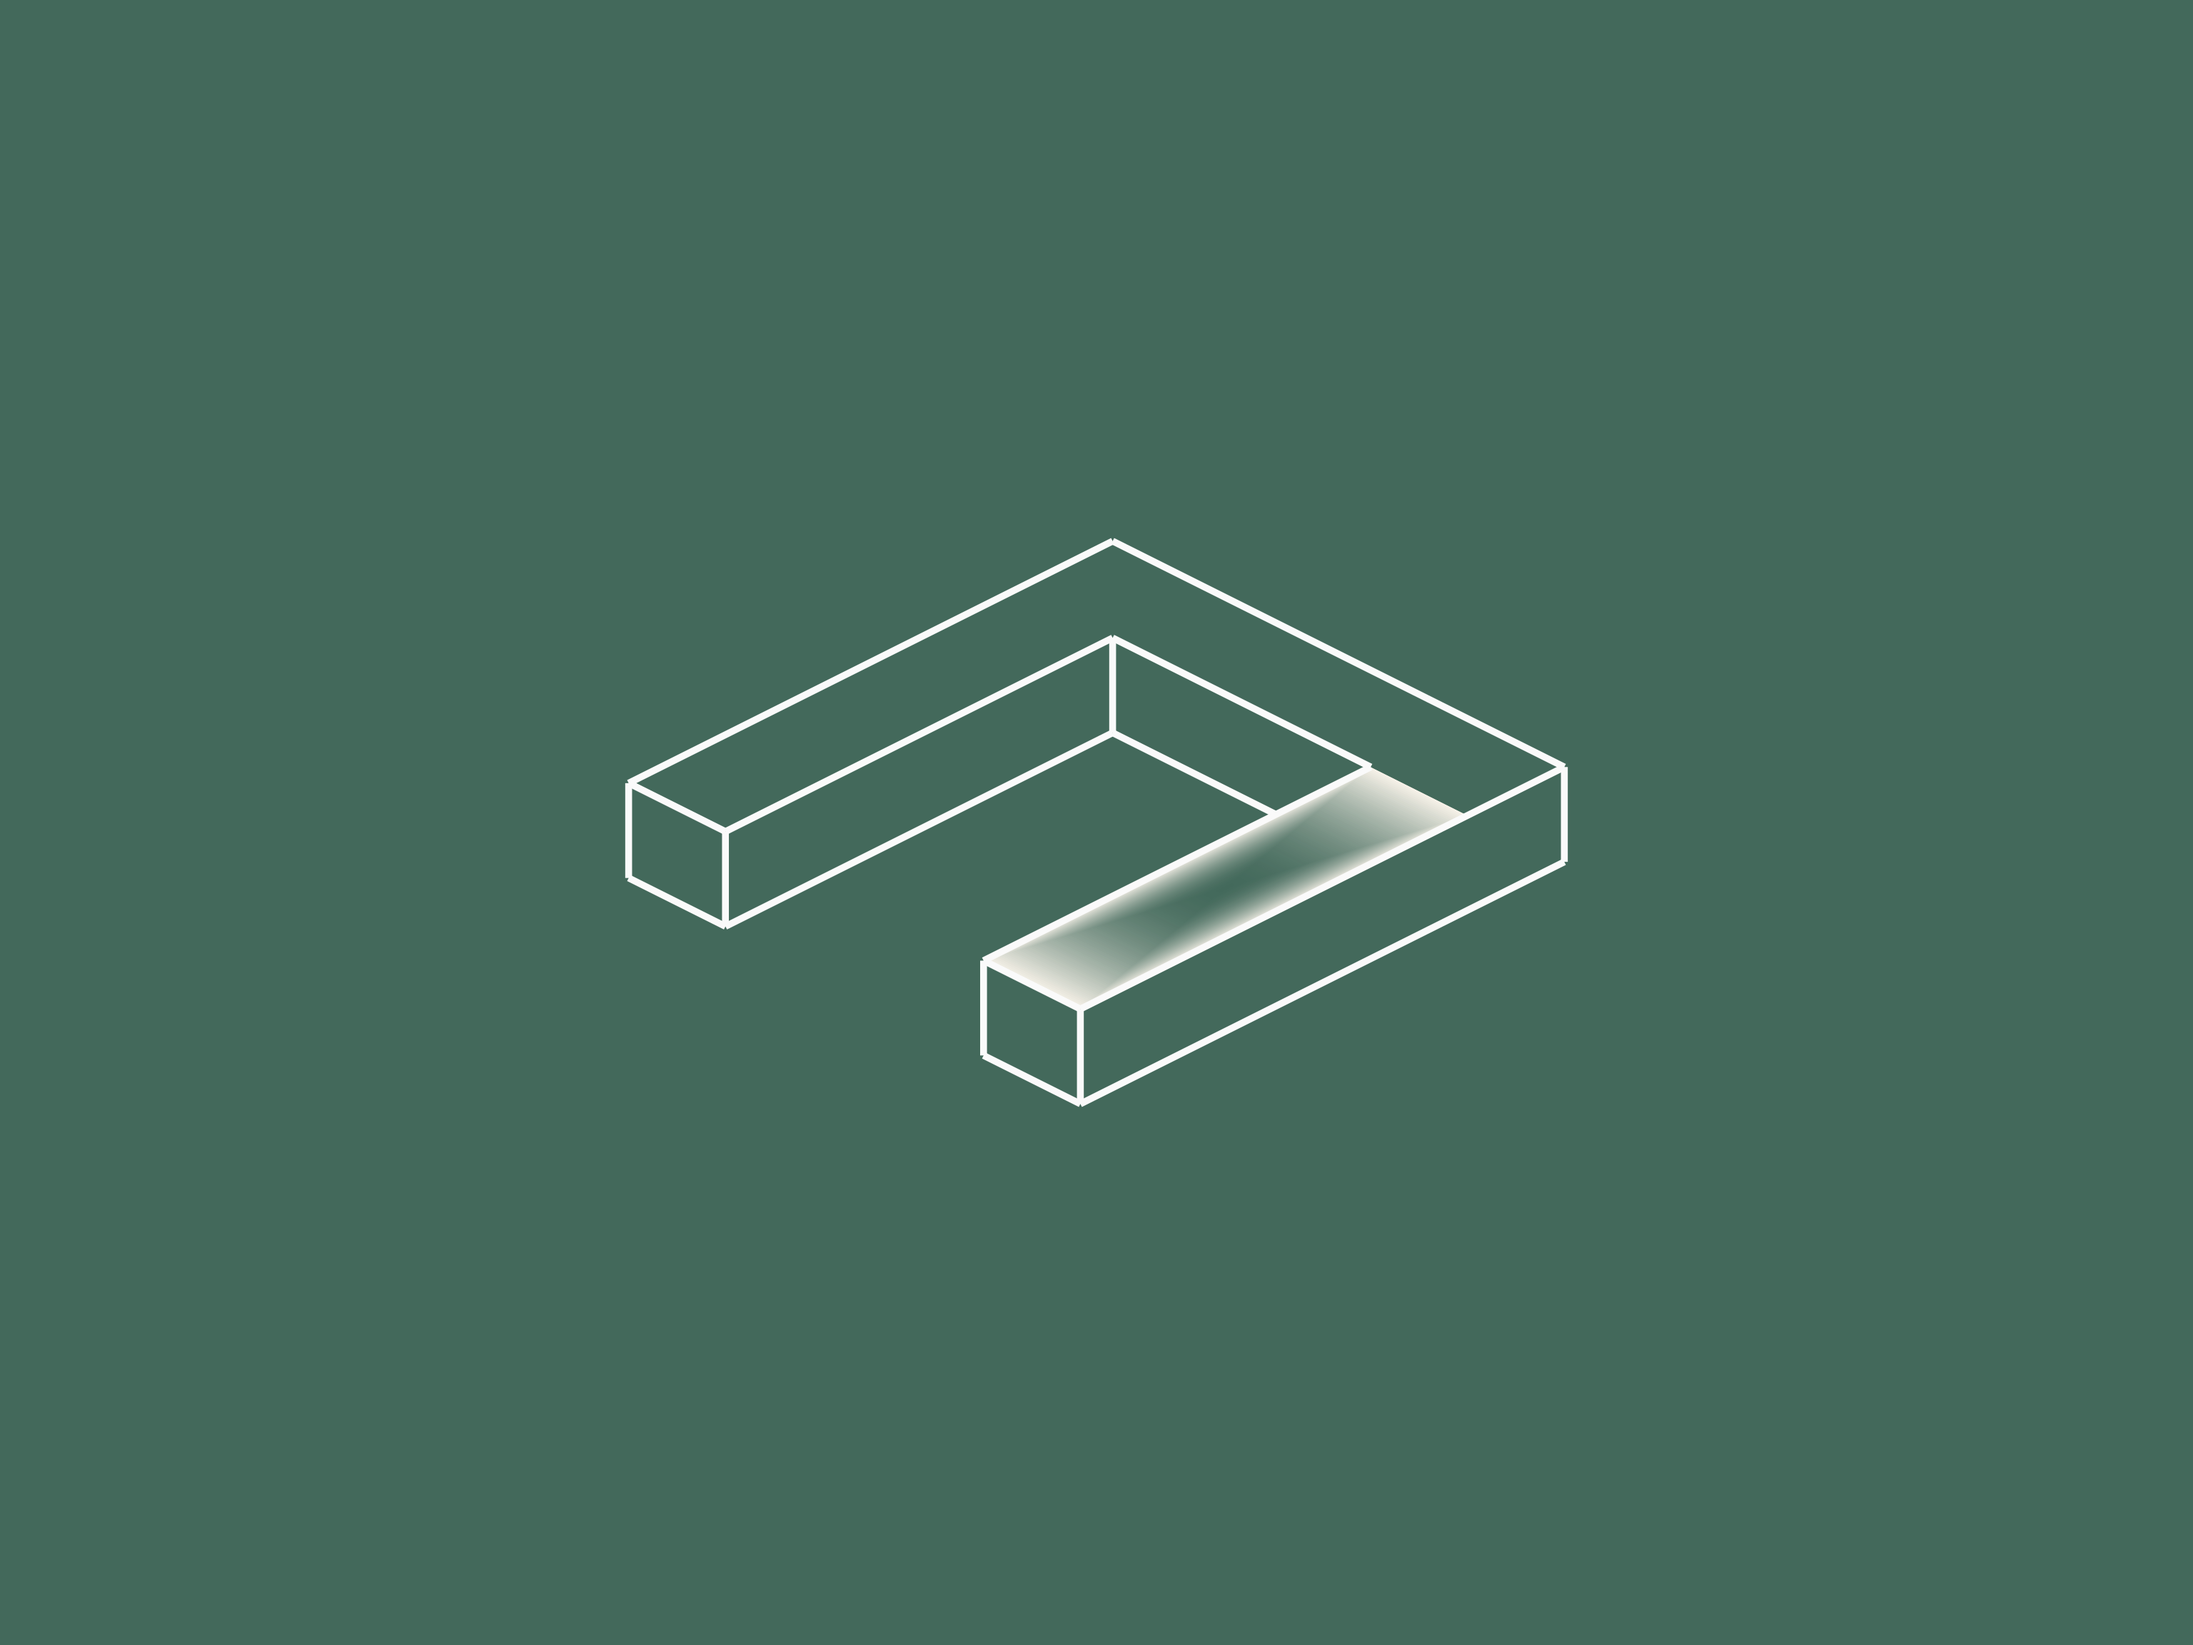
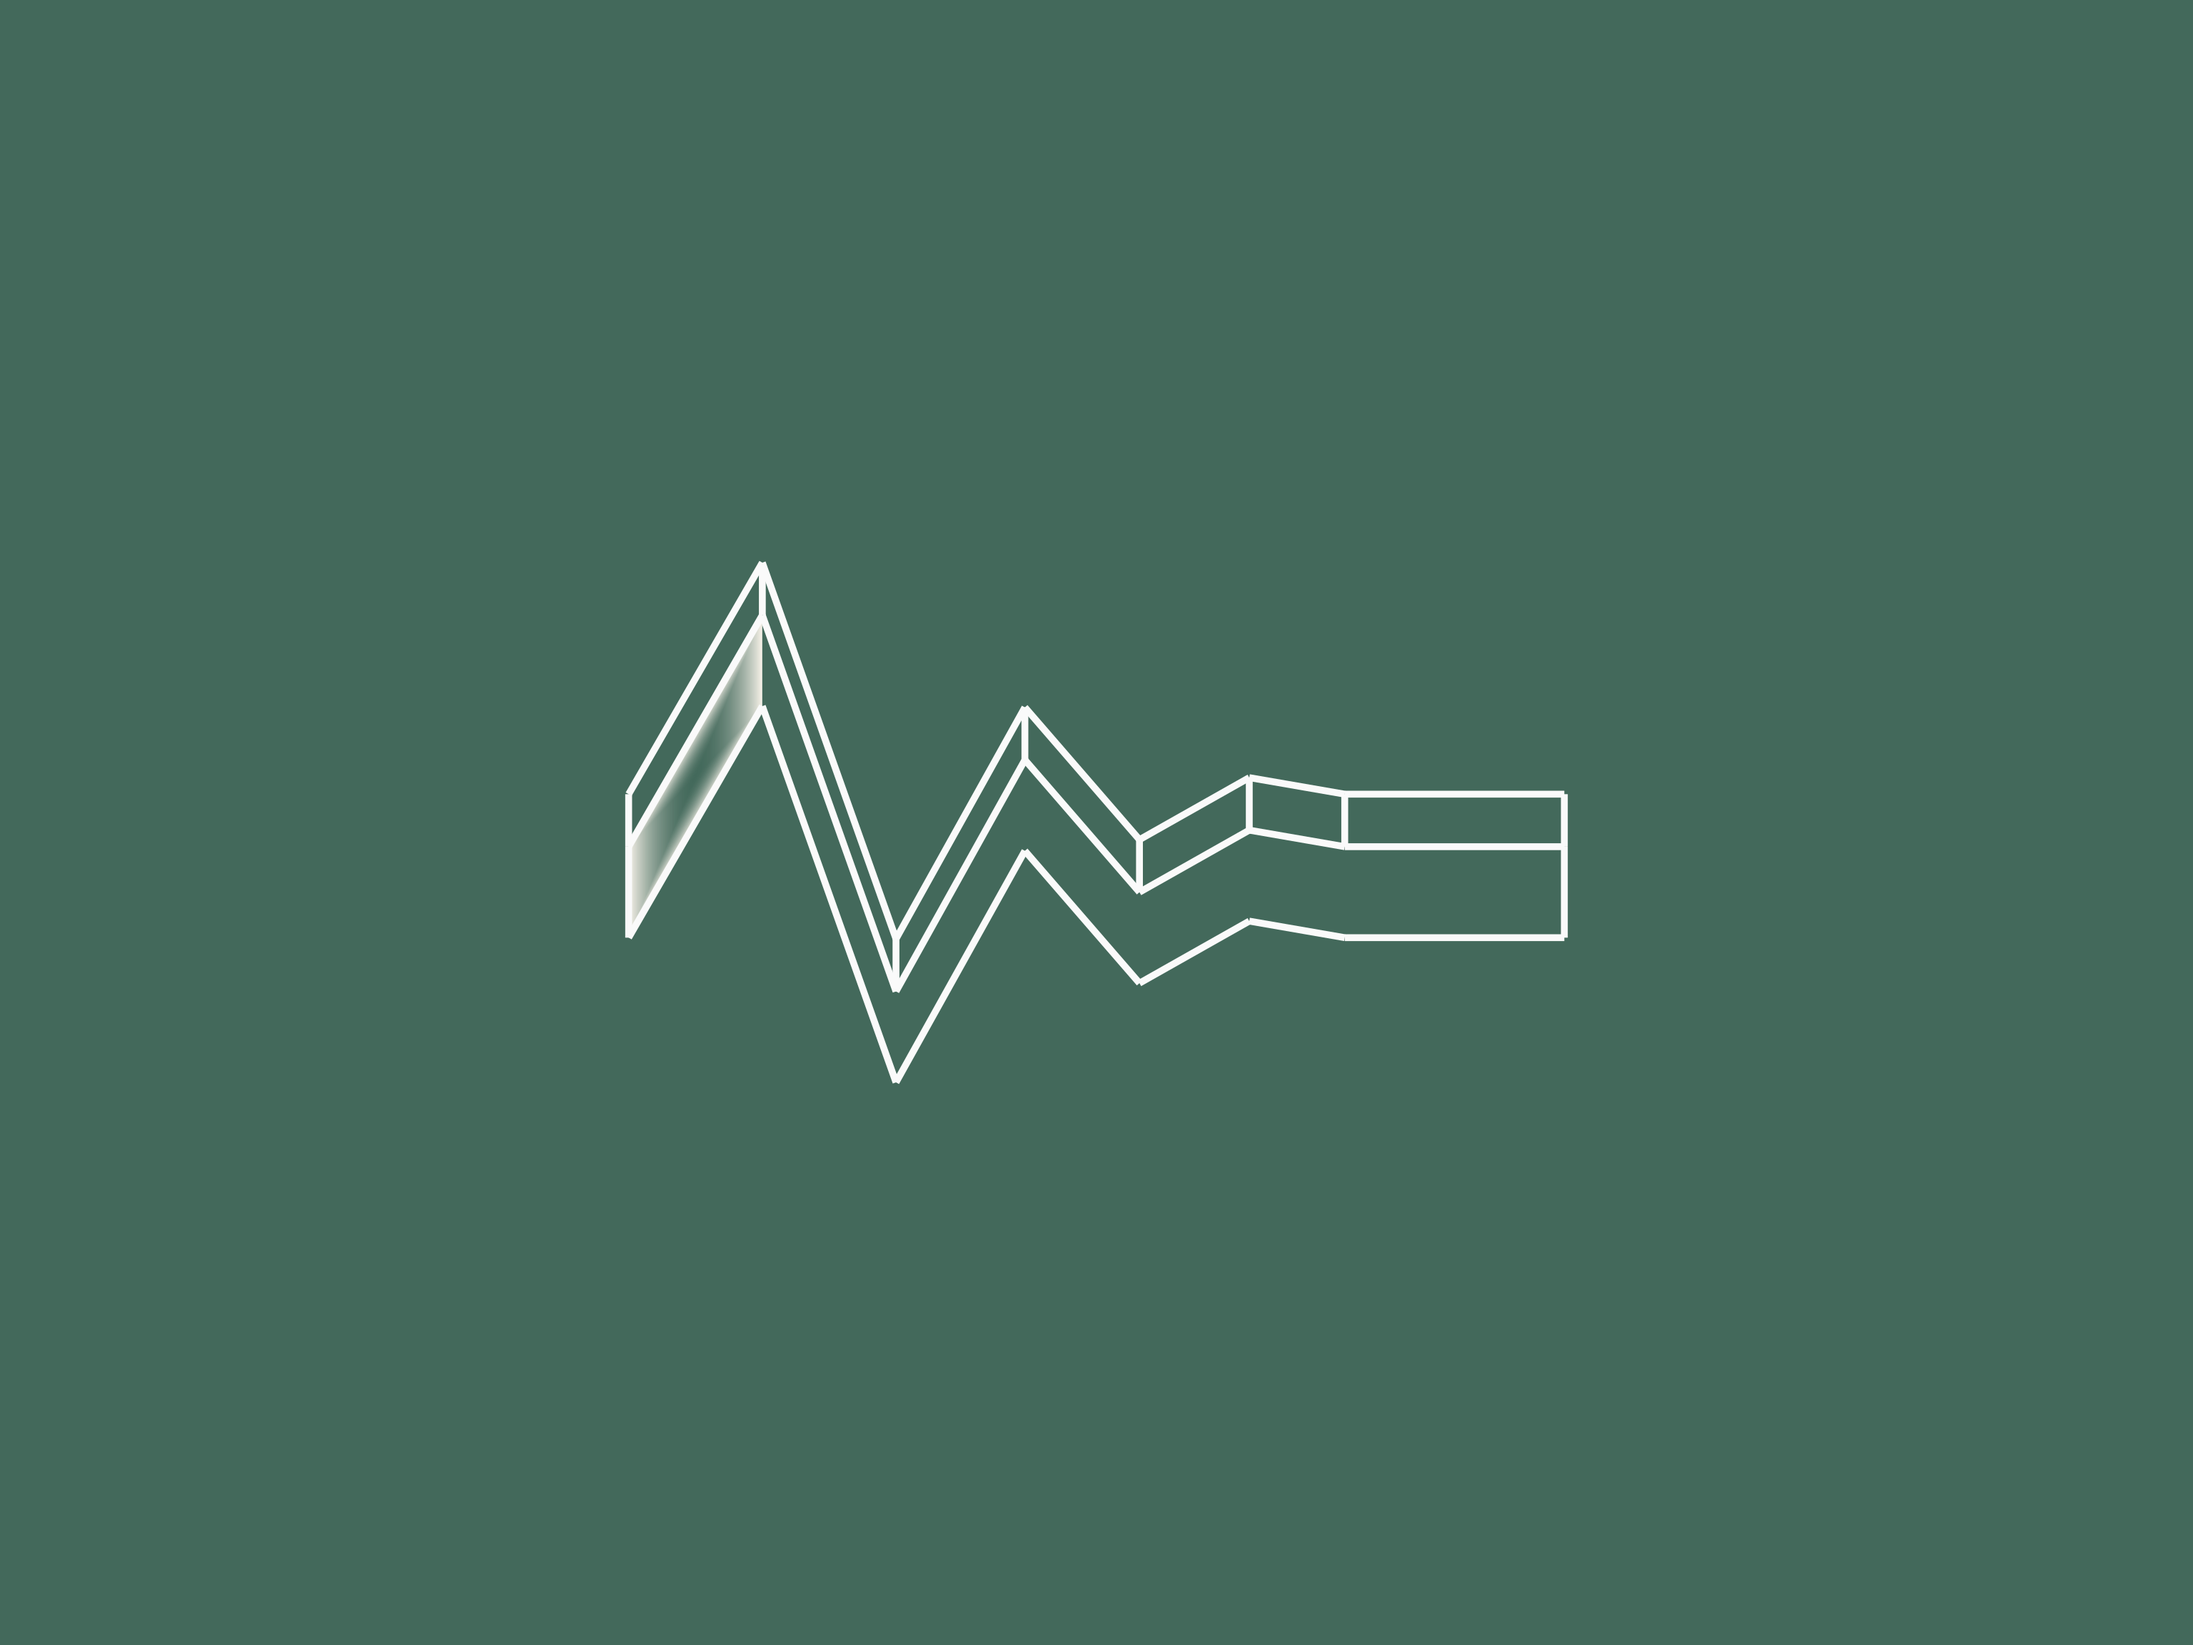
Replace quote follow-up cover with a fading waveform

diff --git a/docs/design/blog-illustrations-2026-11-17/quotes-go-quiet/decision.md b/docs/design/blog-illustrations-2026-11-17/quotes-go-quiet/decision.md
@@ -1,11 +1,15 @@
 # The quote went out. Then nothing.
 
-Selected abstract concept: one substantial hairpin path leaves and returns to the same starting line. The return arm is highlighted, making recurrence and continued follow-up the focal relationship. The two arms and broad square turn are one continuous physical solid, with no connector decoration or literal envelope. This follows the user's latest preference for abstract concepts.
+Selected concept: one substantial signal ribbon settles into silence. A large initial pulse is followed by strictly diminishing alternating pulses and a clear flat tail. The first rising face is the single highlighted region, using the native four-sided diamond fade. All outlines remain fully opaque; the fading is expressed entirely through decreasing amplitude, not transparency. This replaces the rejected hairpin, retained in `recipe.hairpin-rejected.mjs`.
 
-Source: https://atomsai.com/resources/blog/quotes-go-quiet; the imported body describes quotes sent once and then left without useful follow-up. The literal envelope recipe is retained in `recipe.envelope-superseded.mjs`; the old abstract joined sheets remain rejected.
+Source: https://atomsai.com/resources/blog/quotes-go-quiet; the article describes a quote sent out, then a conversation that goes quiet. The signal-to-silence relationship is recognizable without an envelope, text, generic bars or isolated decorative objects.
 
-Geometry: a single concave U-shaped prism, 140 units across, 150 long and 24 thick. Both arms and the return turn have the same 30-unit width. One continuous top face and one bottom face meet eight boundary walls; there are no intersecting beam solids, internal seams or duplicate faces. The highlight is a subset of the actual coplanar return surface, with no other raised geometry that could occlude it.
+Construction: one closed extruded polygon in a physical vertical plane, with orthogonal width, height and depth axes. The angular waveform is deliberately folded rather than a smooth sweep, so every emitted edge is a genuine structural boundary supported by the supplied renderer. The 22-unit depth and 22-unit front-band separation give the pulse real volume. The monotonically increasing horizontal coordinate prevents self-crossing. Pulse amplitudes decrease from 56 to 35, 21, 11 and 4 units; the last 46 units are a flat quiet tail. Front and back are each one coherent face, joined by the actual fold walls. The four-sided highlight follows the actual first rising front-face segment, stays on the foremost physical plane and culls correctly when that face turns away.
 
-Review: all eight Dark/Light neutral, oblique, back and underside exports were inspected at the contact sheet's 300 px viewport. The first candidate revealed reversed side normals; corrected their orientation, then regenerated and inspected all views. The selected candidate has complete side walls, closed end caps and an unobstructed central opening. Neutral and back show the same continuous path from opposite sides; underside correctly removes the upward-facing highlight. No projected tangency, disconnected vertex, floating edge or highlight bleed was visible. Assertions verify every edge belongs to exactly two surfaces, equal path width, a shared departure/return baseline and a highlight entirely on the top surface.
+Visual refinement: widened the first candidate's front band from 14 to 22 units and reduced depth from 26 to 22, improving highlight readability and separating parallel outlines at thumbnail size. Then confined the highlight to the first rising four-sided face with the native diamond fade. Regenerated and inspected every view after both refinements.
 
-Parent retains the approved v2 palette, Paper outlines, Cream highlights, direct SVG, 4:3 composition and thinner 1.6 stroke. Diagnostic skill exports retain their standard palette. Selected geometric master: `review/neutral-dark.svg`.
+Validation: all eight Dark/Light neutral, oblique, back and underside exports pass. The neutral visibly reads as a large pulse that dwindles to a straight tail; oblique and underside views show its actual folded depth. The back view reverses the same intact shape and removes the front highlight. No broken silhouette, detached join, internal mesh seam, self-intersection or highlight bleed was visible. Assertions verify orthogonal axes, decreasing pulse amplitudes, a substantial flat tail, one closed manifold shell, and exactly the real boundary edges.
+
+Also inspected `review/final-color-280.png` in the exact final Forest/Paper/Cream palette, 1.6 line weight and 4:3 frame. At 280 px wide the large pulse, diminishing middle and flat tail remain recognizable. `review/final-color-large.png` and `review/final-color-preview.svg` retain the same preview at larger size. These review-only files do not replace production exports.
+
+Parent handles production export and preserves the approved Forest field, Paper/Cream treatment, 1.6 stroke, direct SVG and 4:3 framing. The skill's diagnostic palette remains in review exports. Selected geometric master: `review/neutral-dark.svg`.
